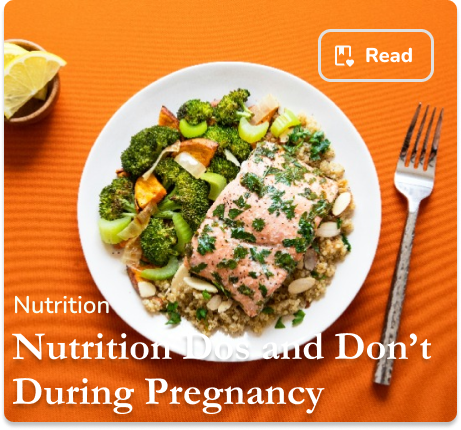
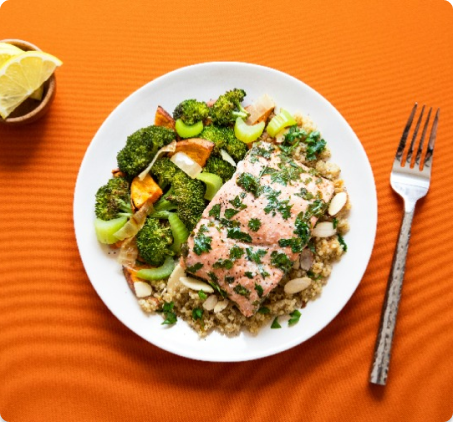
Blog Page

diff --git a/src/components/BlogSamples.jsx b/src/components/BlogSamples.jsx
@@ -101,7 +101,7 @@ function BlogSamples() {
             </h2>
           </div>
         </div>
-        <div className="relative h-1/2">
+        <div className="relative h-fit">
           <img src={nutrition} alt="" />
           <button className="absolute right-12 top-3">
             <img src={readbutton} alt="" />
